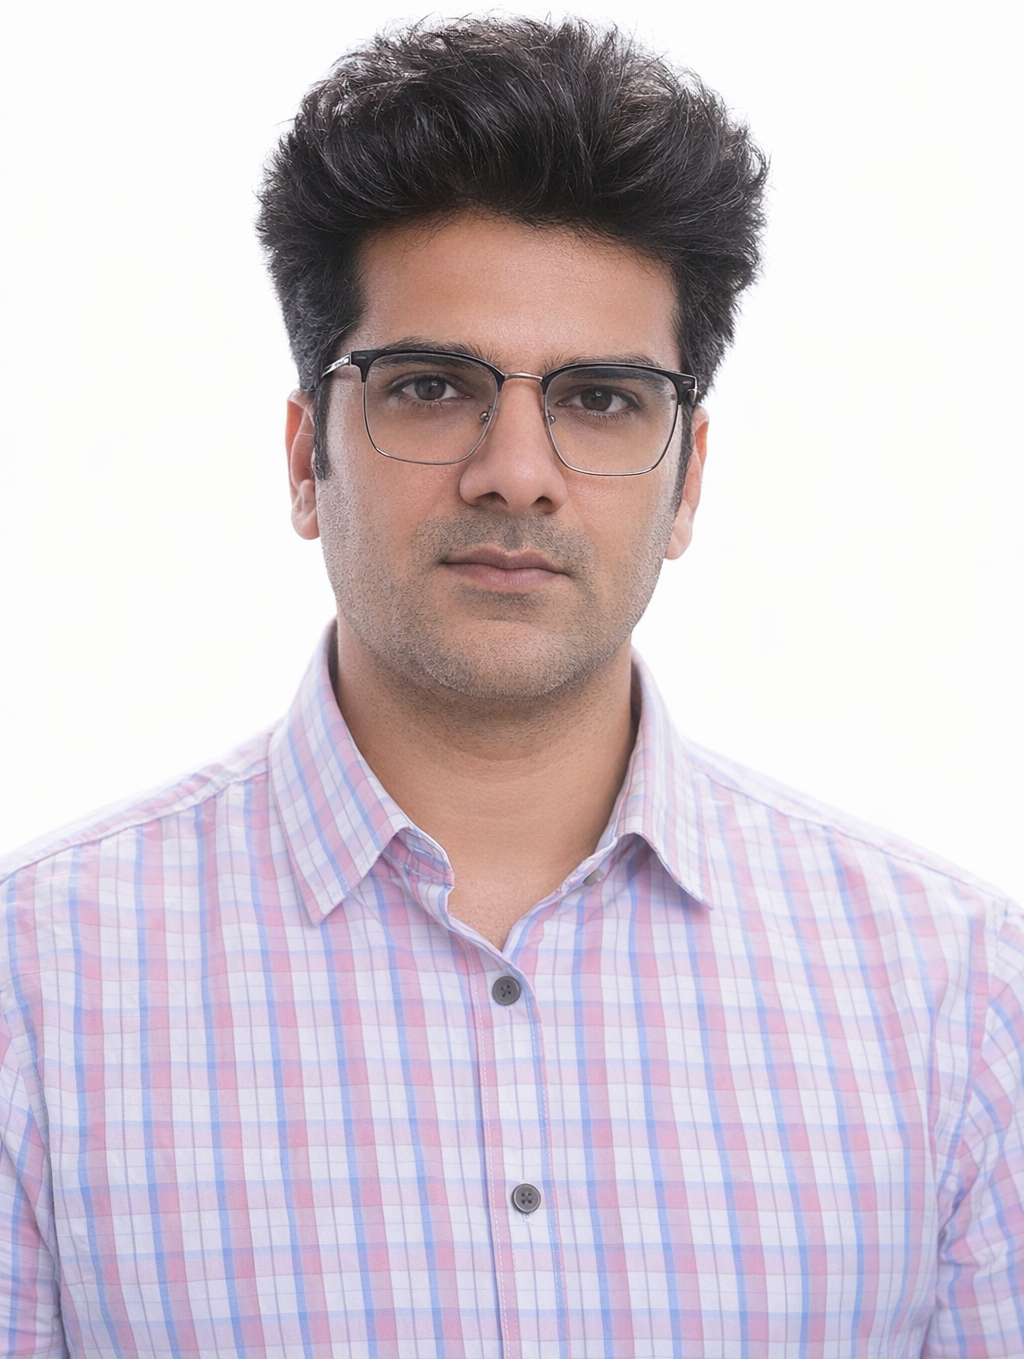
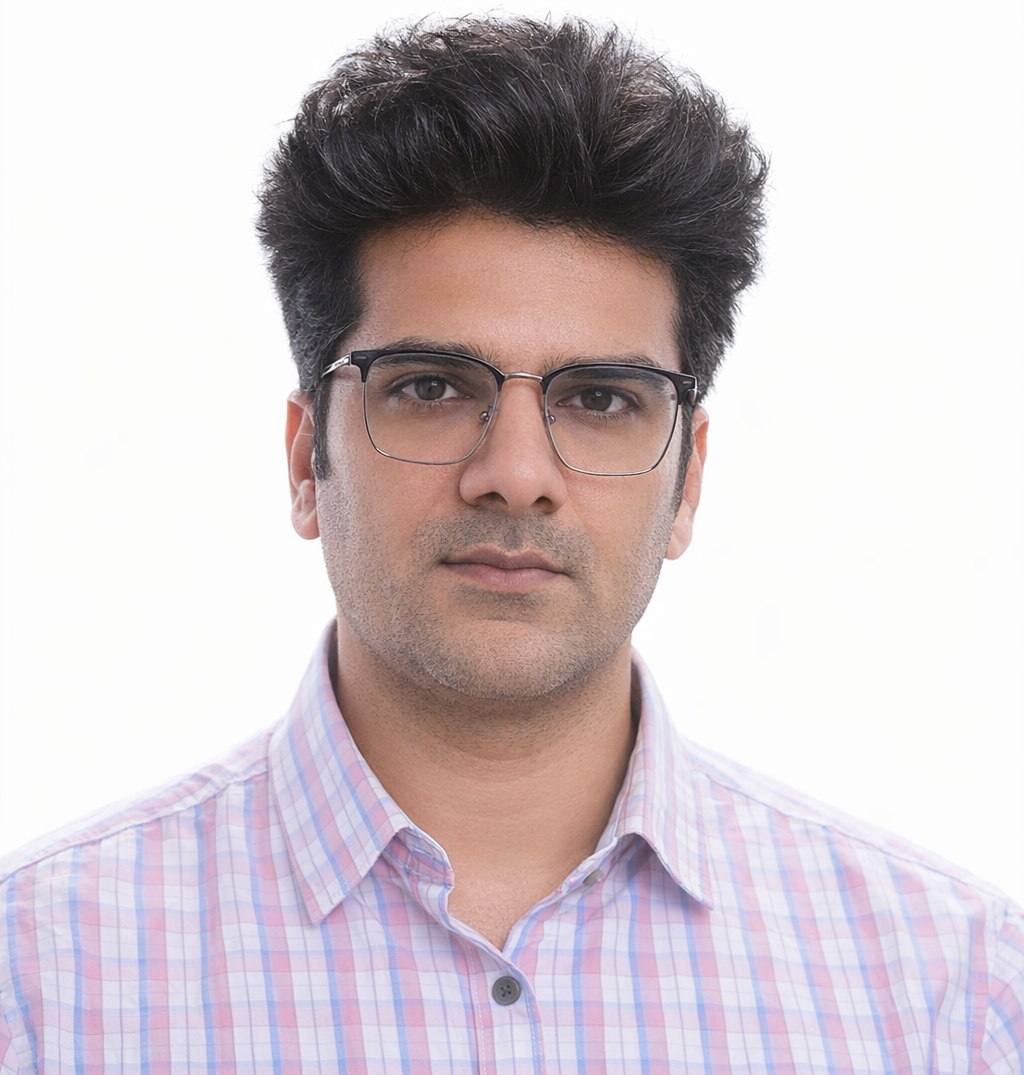
modified

diff --git a/index.html b/index.html
@@ -49,7 +49,7 @@ transformative projects within a forward-thinking organization.
             <!--  Image      -->
          <br>
         <div class="w3-display-container  w3-center">
-          <img src="me_3.png" class="w3-circle" style="width:350px; height:350px; object-fit:cover;" alt="Avatar">
+          <img src="me.png" class="w3-circle" style="width:350px; height:350px; object-fit:cover;" alt="Avatar">
           <div class="w3-display-bottomleft w3-container w3-text-black">
          <!--   <h2>Devendra Kumar</h2>-->
           </div>
